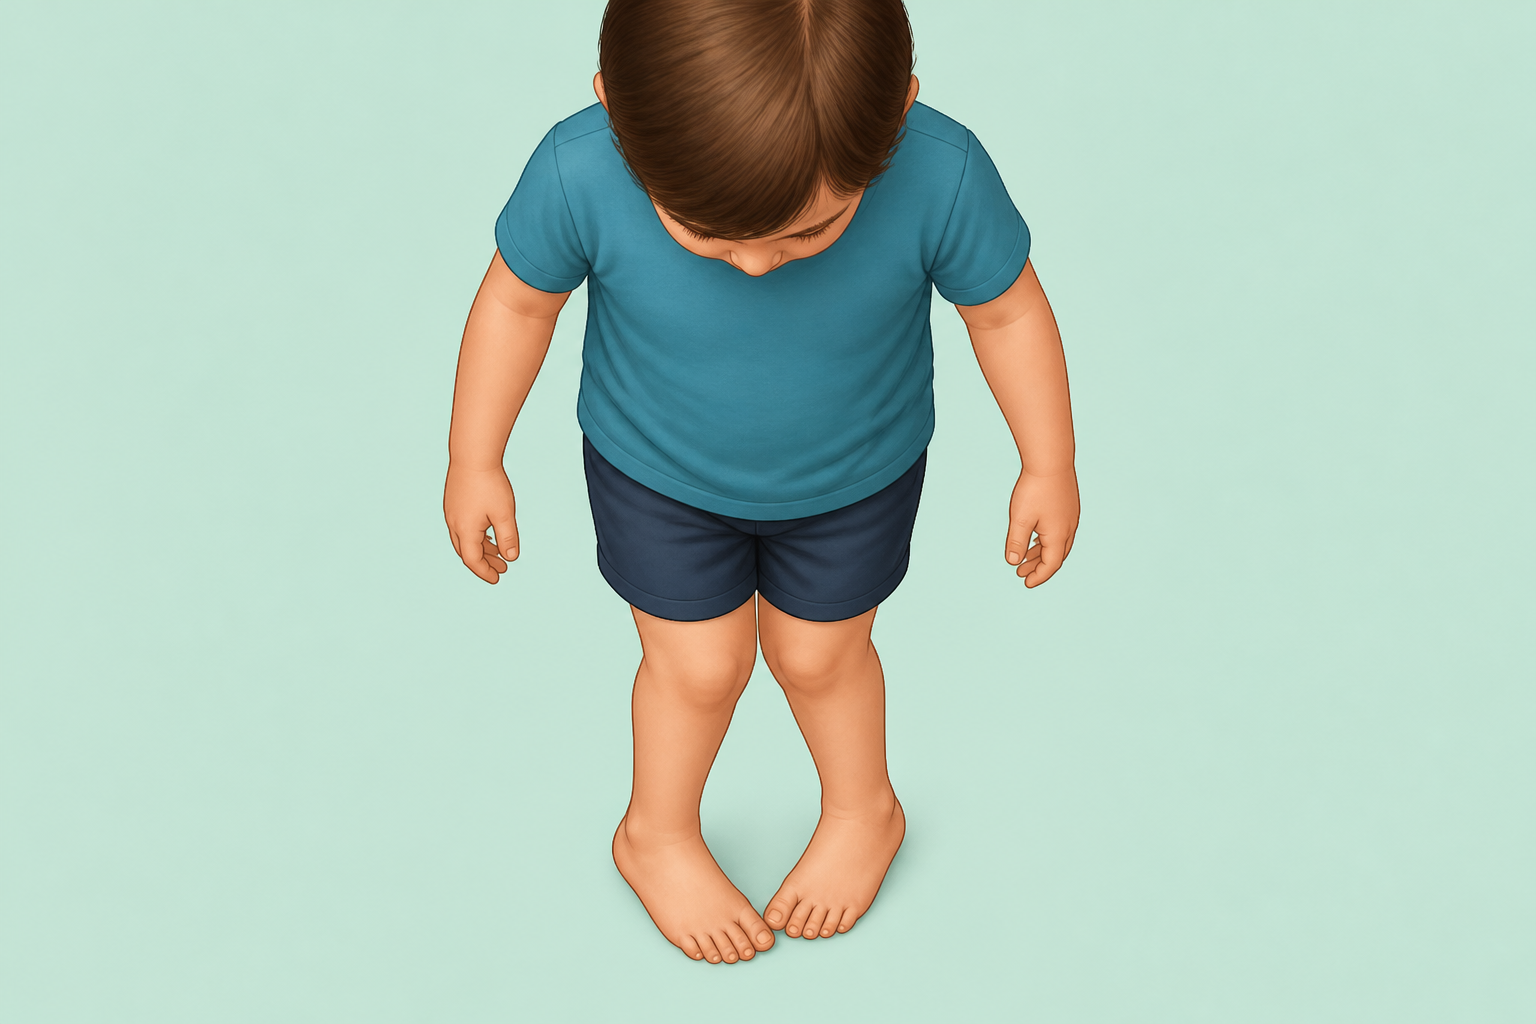
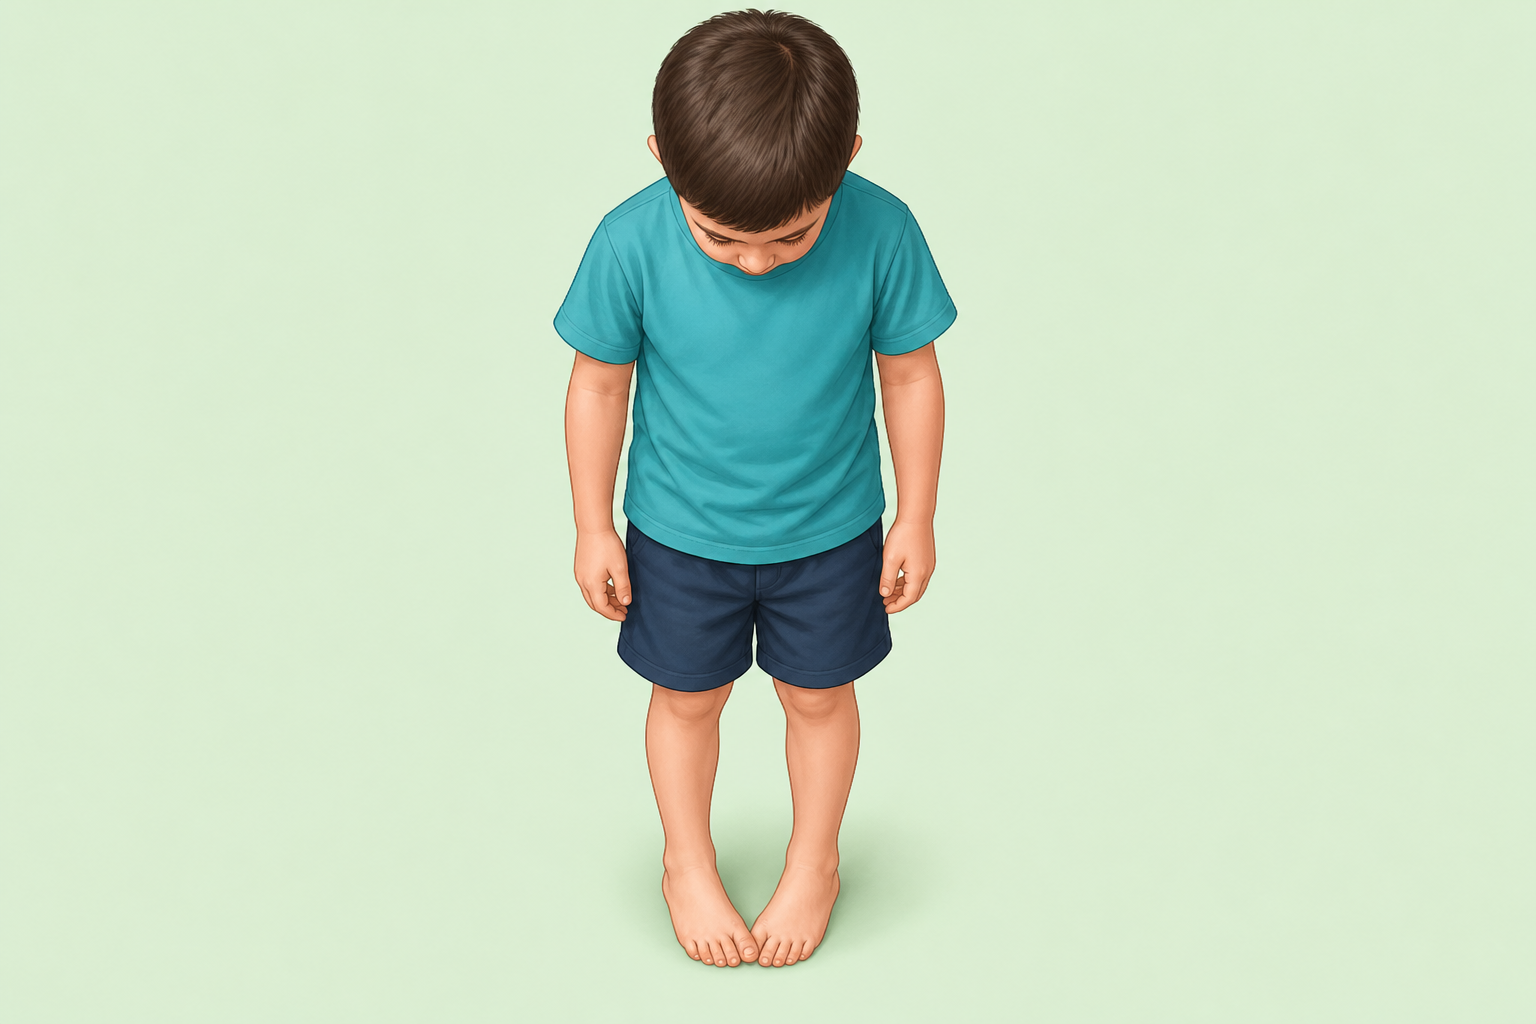
Expand corrective-class content and fix leg-condition slides
Add five slides covering assessment, personalized plan, in-class work,
parent role, and consistency so the corrective class gets real airtime
instead of a single overview slide.

Replace the knock-knee and bow-leg photos, which showed exaggerated or
straight legs that did not match their titles, and stretch photo frames
to full slide height so tightly cropped images no longer sit low.

Rotate four restrained slide and text transitions through the deck so
consecutive slides no longer animate identically.

diff --git a/index.html b/index.html
@@ -47,19 +47,41 @@
       opacity: 0;
       visibility: hidden;
       pointer-events: none;
-      transform: translateX(-2.5%);
       transition:
-        opacity .5s cubic-bezier(.22,1,.36,1),
-        transform .5s cubic-bezier(.22,1,.36,1),
-        visibility .5s;
+        opacity .58s cubic-bezier(.22,1,.36,1),
+        transform .62s cubic-bezier(.22,1,.36,1),
+        clip-path .62s cubic-bezier(.22,1,.36,1),
+        filter .58s cubic-bezier(.22,1,.36,1),
+        visibility .62s;
       display: grid;
       padding: clamp(1.4rem, 3.2vw, 2.6rem);
     }
     .slide.active {
       opacity: 1; visibility: visible; pointer-events: auto;
-      transform: none; z-index: 2;
+      transform: none;
+      clip-path: inset(0);
+      filter: none;
+      z-index: 2;
     }
-    .slide.from-prev { transform: translateX(2.5%); }
+
+    /* Four restrained slide transitions, rotated through the deck */
+    .slide.tr-soft:not(.active) { transform: translateX(-3%) scale(.995); }
+    .slide.tr-soft.from-prev:not(.active) { transform: translateX(3%) scale(.995); }
+
+    .slide.tr-rise:not(.active) { transform: translateY(2.8%) scale(.99); }
+    .slide.tr-rise.from-prev:not(.active) { transform: translateY(-2.8%) scale(.99); }
+
+    .slide.tr-focus:not(.active) { transform: scale(1.025); filter: blur(5px); }
+    .slide.tr-focus.from-prev:not(.active) { transform: scale(.975); filter: blur(5px); }
+
+    .slide.tr-reveal:not(.active) {
+      transform: translateX(-1%);
+      clip-path: inset(0 0 0 6%);
+    }
+    .slide.tr-reveal.from-prev:not(.active) {
+      transform: translateX(1%);
+      clip-path: inset(0 6% 0 0);
+    }
 
     .slide.cover {
       padding: 0;
@@ -72,12 +94,19 @@
       display: grid;
       grid-template-columns: minmax(280px, 0.92fr) minmax(300px, 1.08fr);
       gap: clamp(1.2rem, 3vw, 2.4rem);
-      align-items: center;
+      align-items: stretch;
+    }
+    .layout > :not(.photo) {
+      display: grid;
+      align-content: center;
     }
     .layout.solo {
       grid-template-columns: 1fr;
       place-items: center;
       text-align: center;
+    }
+    .layout.solo > :not(.photo) {
+      display: block;
     }
 
     .brand {
@@ -126,12 +155,13 @@
     }
 
     .photo {
-      height: min(72vh, 100%);
+      height: 100%;
       min-height: 280px;
       border-radius: 1.2rem;
       overflow: hidden;
       background: #dfecea;
       border: 1px solid var(--line);
+      align-self: stretch;
     }
     .photo img {
       width: 100%;
@@ -140,16 +170,17 @@
       object-position: center;
       display: block;
     }
+    .photo.legs img { object-position: center 38%; }
 
     .cover-bg {
       position: absolute; inset: 0;
       background:
-        linear-gradient(105deg, rgba(10,34,32,.88) 0%, rgba(10,34,32,.55) 48%, rgba(10,34,32,.35) 100%),
-        url("assets/ab-hero.jpg") center/cover no-repeat;
+        linear-gradient(105deg, rgba(10,34,32,.78) 0%, rgba(10,34,32,.48) 48%, rgba(10,34,32,.28) 100%),
+        url("assets/ab-class.jpg") center/cover no-repeat;
     }
     .cover-bg.class {
       background:
-        linear-gradient(105deg, rgba(10,34,32,.86) 0%, rgba(10,34,32,.5) 55%, rgba(10,34,32,.28) 100%),
+        linear-gradient(105deg, rgba(10,34,32,.82) 0%, rgba(10,34,32,.48) 55%, rgba(10,34,32,.26) 100%),
         url("assets/ab-class.jpg") center/cover no-repeat;
     }
     .cover-inner {
@@ -166,11 +197,26 @@
     .frag {
       opacity: 0;
       transform: translateY(14px);
-      transition: opacity .45s cubic-bezier(.22,1,.36,1), transform .45s cubic-bezier(.22,1,.36,1);
+      transition:
+        opacity .48s cubic-bezier(.22,1,.36,1),
+        transform .52s cubic-bezier(.22,1,.36,1),
+        filter .48s cubic-bezier(.22,1,.36,1);
     }
+    .tr-soft .frag:not(.show) { transform: translateX(18px); }
+    .tr-rise .frag:not(.show) { transform: translateY(18px); }
+    .tr-focus .frag:not(.show) { transform: scale(.97); filter: blur(3px); }
+    .tr-reveal .frag:not(.show) { transform: translateX(-16px); }
     .frag.show {
       opacity: 1;
       transform: none;
+      filter: none;
+    }
+
+    @media (prefers-reduced-motion: reduce) {
+      .slide, .frag {
+        transition-duration: .01ms !important;
+        filter: none !important;
+      }
     }
 
     .hud {
@@ -280,7 +326,7 @@
       </div>
     </section>
 
-    <section class="slide" data-title="گودی کمر" data-notes="لوردوز افزایشیافته.">
+    <section class="slide" data-title="گودی زیاد کمر" data-notes="لوردوز افزایشیافته.">
       <div class="layout">
         <div>
           <div class="brand frag" data-frag="0">ناهنجاری</div>
@@ -294,7 +340,7 @@
       </div>
     </section>
 
-    <section class="slide" data-title="شانه نامتقارن" data-notes="کولهپشتی و عادت ایستادن.">
+    <section class="slide" data-title="شانه و لگن" data-notes="کولهپشتی و عادت ایستادن.">
       <div class="layout">
         <div>
           <div class="brand frag" data-frag="0">ناهنجاری</div>
@@ -332,7 +378,7 @@
             <li class="frag" data-frag="2">تأثیر روی الگوی راه رفتن</li>
           </ul>
         </div>
-        <div class="photo frag" data-frag="0"><img src="assets/ab-knees.jpg" alt=""></div>
+        <div class="photo legs frag" data-frag="0"><img src="assets/ab-knees.jpg" alt=""></div>
       </div>
     </section>
 
@@ -346,7 +392,7 @@
             <li class="frag" data-frag="2">گاهی با سایش غیرطبیعی کفش</li>
           </ul>
         </div>
-        <div class="photo frag" data-frag="0"><img src="assets/ab-bow-legs.jpg" alt=""></div>
+        <div class="photo legs frag" data-frag="0"><img src="assets/ab-bow-legs.jpg" alt=""></div>
       </div>
     </section>
 
@@ -364,7 +410,7 @@
       </div>
     </section>
 
-    <section class="slide" data-title="پاهای روبهداخل" data-notes="الگوی راه رفتن.">
+    <section class="slide" data-title="چرخش به داخل" data-notes="الگوی راه رفتن.">
       <div class="layout">
         <div>
           <div class="brand frag" data-frag="0">ناهنجاری</div>
@@ -378,7 +424,7 @@
       </div>
     </section>
 
-    <section class="slide" data-title="پاهای روبهخارج" data-notes="الگوی راه رفتن.">
+    <section class="slide" data-title="چرخش به خارج" data-notes="الگوی راه رفتن.">
       <div class="layout">
         <div>
           <div class="brand frag" data-frag="0">ناهنجاری</div>
@@ -422,7 +468,7 @@
       </div>
     </section>
 
-    <section class="slide cover" data-title="کلاس اصلاحی" data-notes="تعریف کوتاه کلاس.">
+    <section class="slide cover" data-title="کلاس اصلاحی" data-notes="تعریف کوتاه کلاس؛ بعد وارد جزئیات اصلاح شو.">
       <div class="cover-bg class"></div>
       <div class="cover-inner wide">
         <div class="brand frag" data-frag="0">راهحل</div>
@@ -432,6 +478,72 @@
           <li class="frag" data-frag="2">تمرین هدفمند قامتی</li>
           <li class="frag" data-frag="3">همراهی خانواده</li>
         </ul>
+      </div>
+    </section>
+
+    <section class="slide" data-title="ارزیابی" data-notes="اول نگاه، بعد برنامه.">
+      <div class="layout solo">
+        <div>
+          <div class="brand frag" data-frag="0">گام اول</div>
+          <h1 class="frag" data-frag="1" style="max-width:14ch;margin-inline:auto">ارزیابی قامتی کودک</h1>
+          <ul class="points" style="margin-top:1.2rem;max-width:34ch;margin-inline:auto;text-align:right">
+            <li class="frag" data-frag="2">بررسی ایستادن، راه رفتن و نشستن</li>
+            <li class="frag" data-frag="3">شناسایی نقاط ضعف و الگوی غلط</li>
+          </ul>
+        </div>
+      </div>
+    </section>
+
+    <section class="slide" data-title="برنامه شخصی" data-notes="هر کودک نسخه خودش را دارد.">
+      <div class="layout solo">
+        <div>
+          <div class="brand frag" data-frag="0">اصلاح</div>
+          <h1 class="frag" data-frag="1" style="max-width:16ch;margin-inline:auto">برنامه برای همان کودک</h1>
+          <ul class="points" style="margin-top:1.2rem;max-width:34ch;margin-inline:auto;text-align:right">
+            <li class="frag" data-frag="2">نه تمرین عمومی برای همه</li>
+            <li class="frag" data-frag="3">تمرکز روی نیاز واقعی قامت او</li>
+          </ul>
+        </div>
+      </div>
+    </section>
+
+    <section class="slide" data-title="تمرین در کلاس" data-notes="کوتاه بگو جلسه چه شکلی است.">
+      <div class="layout">
+        <div>
+          <div class="brand frag" data-frag="0">اصلاح</div>
+          <h2 class="frag" data-frag="0">در کلاس چه میکنیم؟</h2>
+          <ul class="points">
+            <li class="frag" data-frag="1">تقویت عضلات ثباتدهنده</li>
+            <li class="frag" data-frag="2">اصلاح الگوی ایستادن و حرکت</li>
+          </ul>
+        </div>
+        <div class="photo frag" data-frag="0"><img src="assets/ab-class.jpg" alt=""></div>
+      </div>
+    </section>
+
+    <section class="slide" data-title="نقش والدین" data-notes="بدون خانه، نتیجه کندتر است.">
+      <div class="layout solo">
+        <div>
+          <div class="brand frag" data-frag="0">اصلاح</div>
+          <h1 class="frag" data-frag="1" style="max-width:16ch;margin-inline:auto">تمرین کوتاه در خانه</h1>
+          <ul class="points" style="margin-top:1.2rem;max-width:34ch;margin-inline:auto;text-align:right">
+            <li class="frag" data-frag="2">چند حرکت ساده و منظم</li>
+            <li class="frag" data-frag="3">همراهی والدین، نه فشار زیاد</li>
+          </ul>
+        </div>
+      </div>
+    </section>
+
+    <section class="slide" data-title="تداوم" data-notes="انتظارات واقعی بساز.">
+      <div class="layout solo">
+        <div>
+          <div class="brand frag" data-frag="0">اصلاح</div>
+          <h1 class="frag" data-frag="1" style="max-width:16ch;margin-inline:auto">نتیجه با تداوم میآید</h1>
+          <ul class="points" style="margin-top:1.2rem;max-width:34ch;margin-inline:auto;text-align:right">
+            <li class="frag" data-frag="2">تغییر قامت یکشبه نیست</li>
+            <li class="frag" data-frag="3">پیگیری منظم، اثر پایدارتر</li>
+          </ul>
+        </div>
       </div>
     </section>
 
@@ -466,7 +578,7 @@
   <div class="hud" id="hud">
     <div class="g">
       <button type="button" id="prev">قبلی</button>
-      <div class="counter" id="counter">۱ از ۱۷</div>
+      <div class="counter" id="counter">۱ از ۲۲</div>
       <button type="button" id="next">بعدی</button>
     </div>
     <div class="g">
@@ -481,6 +593,8 @@
 <script>
 (() => {
   const slides = [...document.querySelectorAll(".slide")];
+  const transitions = ["tr-focus", "tr-rise", "tr-soft", "tr-reveal"];
+  slides.forEach((slide, idx) => slide.classList.add(transitions[idx % transitions.length]));
   const bar = document.getElementById("bar");
   const counter = document.getElementById("counter");
   const notesPanel = document.getElementById("notesPanel");

diff --git a/HANDOFF.md b/HANDOFF.md
@@ -86,27 +86,32 @@ armaghan-presentation.zip   # بسته کامل برای دانلود
 
 ---
 
-## ۵) فهرست اسلایدها (۱۷ عدد)
+## ۵) فهرست اسلایدها (۲۲ عدد)
 
 | # | data-title | تصویر | موضوع |
 |---|------------|--------|--------|
-| 1 | عنوان | `ab-hero.jpg` | معرفی ارمغان + کلاس اصلاحی |
+| 1 | عنوان | `ab-class.jpg` | معرفی ارمغان + کلاس اصلاحی |
 | 2 | پیام اصلی | — | تشخیص زودهنگام |
 | 3 | سر روبهجلو | `ab-forward-head.jpg` | |
 | 4 | قوز پشتی | `ab-kyphosis.jpg` | |
-| 5 | گودی کمر | `ab-swayback.jpg` | |
-| 6 | شانه نامتقارن | `ab-uneven.jpg` | |
+| 5 | گودی زیاد کمر | `ab-swayback.jpg` | |
+| 6 | شانه و لگن | `ab-uneven.jpg` | |
 | 7 | کتف بالهای | `ab-scapula.jpg` | |
 | 8 | پای ضربدری | `ab-knees.jpg` | |
-| 9 | پای پرانتزی | `ab-bow-legs.jpg` | |
+| 9 | پای پرانتزی | `ab-bow-legs.jpg` | ملایم، نه اغراقشده |
 | 10 | کف پای صاف | `ab-flat-feet.jpg` | |
-| 11 | پاهای روبهداخل | `ab-intoe.jpg` | |
-| 12 | پاهای روبهخارج | `ab-outtoe.jpg` | |
+| 11 | چرخش به داخل | `ab-intoe.jpg` | |
+| 12 | چرخش به خارج | `ab-outtoe.jpg` | |
 | 13 | نشستن غلط | `ab-sitting.jpg` | عامل تشدیدکننده |
 | 14 | نشانهها | — | چکلیست والدین |
 | 15 | کلاس اصلاحی | `ab-class.jpg` | تعریف کلاس |
-| 16 | تفاوت | — | ورزش عمومی ≠ اصلاح |
-| 17 | دعوت نهایی | `ab-hero.jpg` | CTA پذیرش ارمغان |
+| 16 | ارزیابی | — | گام اول اصلاح |
+| 17 | برنامه شخصی | — | برنامه برای همان کودک |
+| 18 | تمرین در کلاس | `ab-class.jpg` | تقویت + الگوی حرکت |
+| 19 | نقش والدین | — | تمرین کوتاه در خانه |
+| 20 | تداوم | — | نتیجه با پیگیری |
+| 21 | تفاوت | — | ورزش عمومی ≠ اصلاح |
+| 22 | دعوت نهایی | `ab-class.jpg` | CTA پذیرش ارمغان |
 
 هر اسلاید ناهنجاری = **یک موضوع** + حداکثر ۲ بولت.
 
@@ -202,7 +207,7 @@ armaghan-presentation.zip   # بسته کامل برای دانلود
 ## ۱۰) وضعیت فعلی
 
 - نسخهٔ فعلی: **آماده ارائه مینیمال** (پس از بازنویسی بر اساس فیدبک کاربر)
-- تعداد اسلاید: **۱۷**
+- تعداد اسلاید: **۲۲**
 - وابستگی بیلد: **ندارد**
 - ارتباط با ریپوی salar/raahbar: **ندارد** (اگر داخل workspace لاراول دیده میشود، اتفاقی است؛ جدا نگه دارید)
 
